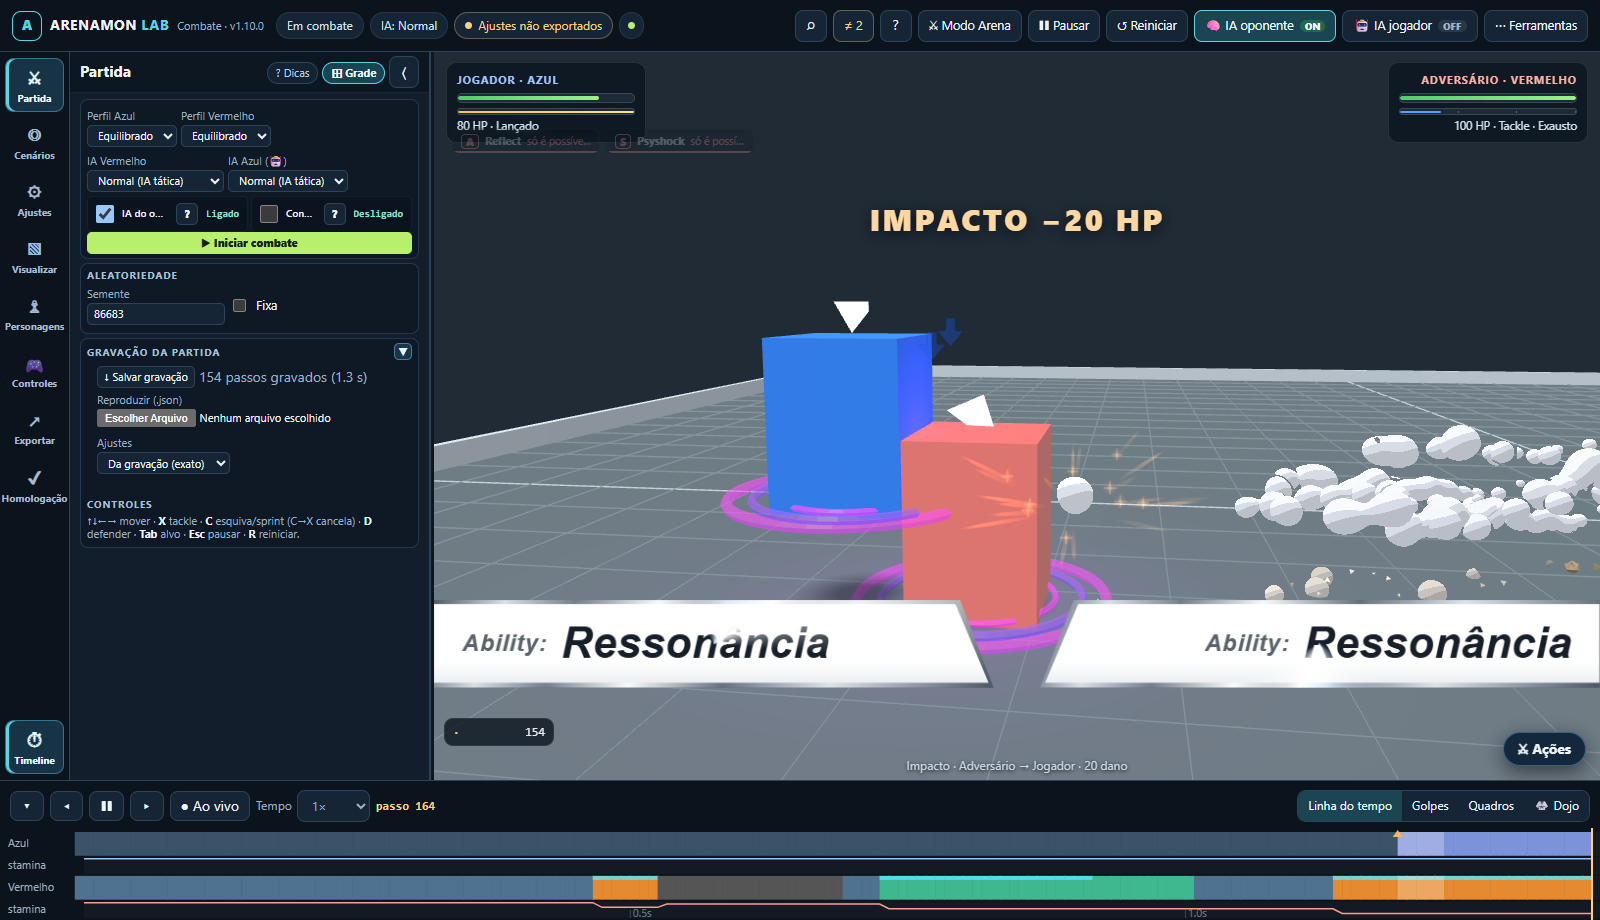
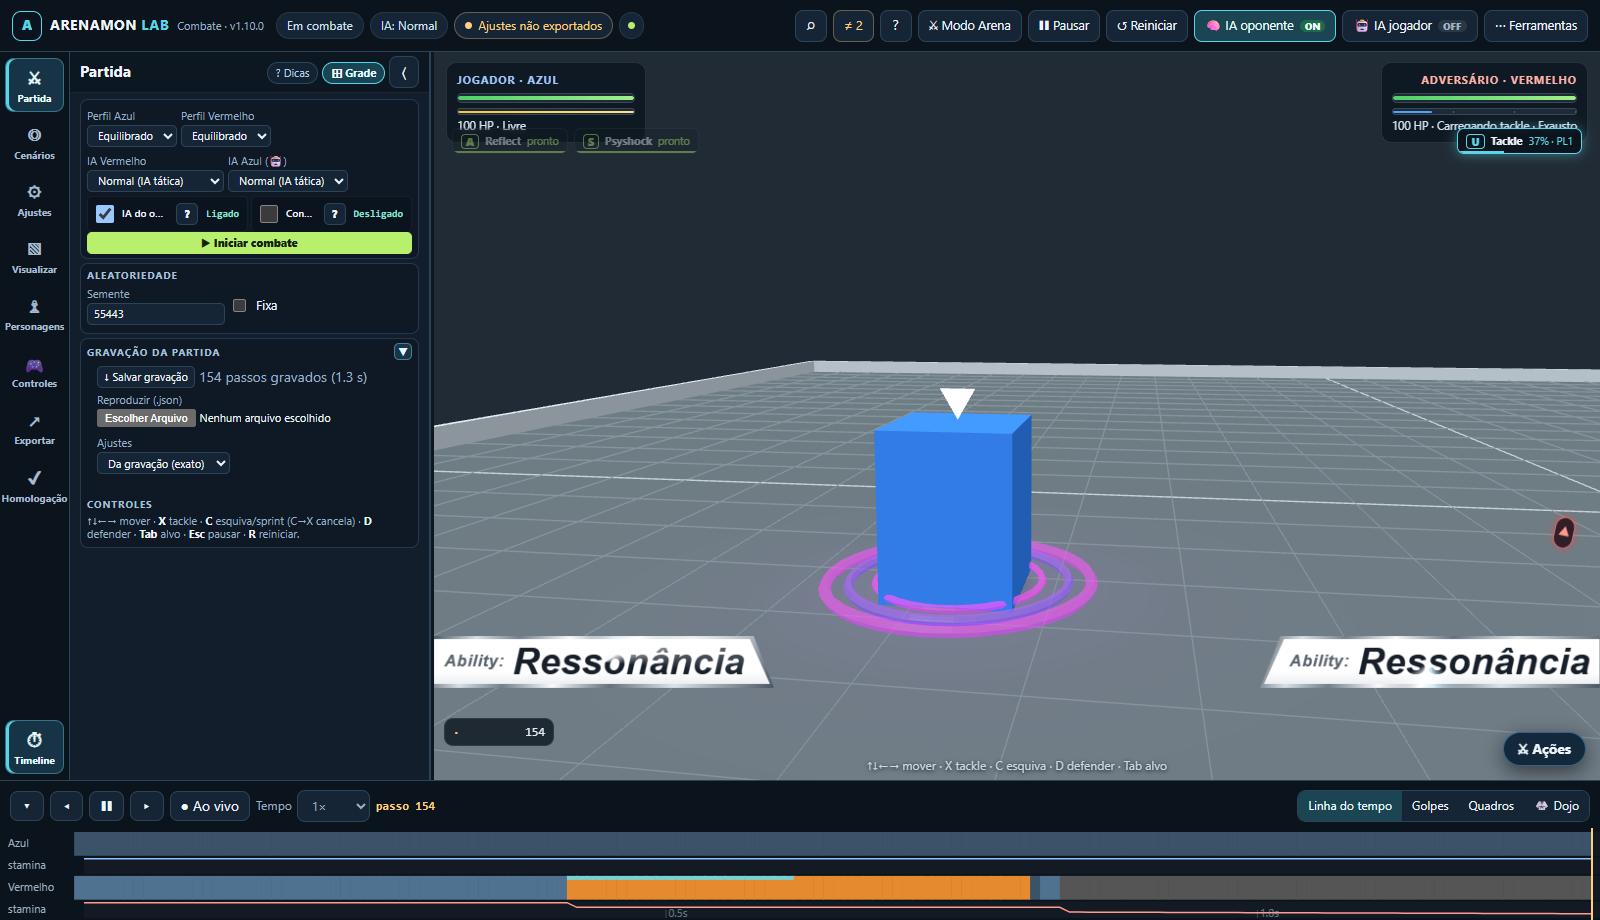
fix(combat-lab): compactar avisos de habilidades

diff --git a/prototypes/combat-lab/src/styles.css b/prototypes/combat-lab/src/styles.css
@@ -92,11 +92,11 @@ pre.diff{max-height:240px;overflow:auto;font-size:11px;background:#0b1118;paddin
 .chip-variant b{color:#8de4d1}.chip-variant button{min-height:20px!important;padding:0 5px!important;font-size:10px}
 .variants select{width:100%;font-size:11px;min-height:26px}.variants tr.playing td:first-child{color:var(--lime);font-weight:700}
 #vfx-flash{position:absolute;inset:0;pointer-events:none;opacity:0;mix-blend-mode:screen;z-index:3}
-.ability-banner{--side:-1;position:absolute;left:0;bottom:92px;width:min(620px,48%);height:88px;z-index:7;pointer-events:none;overflow:hidden;opacity:0;clip-path:polygon(0 0,94% 0,100% 100%,0 100%);filter:drop-shadow(0 5px 5px #0008);background:linear-gradient(110deg,#4d5964,#d8e0e6 12%,#737f8a 24%,#f8fbfd 38%,#65717c 54%,#dce4ea 72%,#4a5661);transform-origin:left center}
+.ability-banner{--side:-1;position:absolute;left:0;bottom:92px;width:min(340px,30%);height:52px;z-index:7;pointer-events:none;overflow:hidden;opacity:0;clip-path:polygon(0 0,94% 0,100% 100%,0 100%);filter:drop-shadow(0 4px 4px #0008);background:linear-gradient(110deg,#4d5964,#d8e0e6 12%,#737f8a 24%,#f8fbfd 38%,#65717c 54%,#dce4ea 72%,#4a5661);transform-origin:left center}
 .ability-banner.right{--side:1;left:auto;right:0;clip-path:polygon(6% 0,100% 0,100% 100%,0 100%);transform-origin:right center}
-.ability-banner-inner{position:absolute;inset:4px 5px 5px 0;display:flex;align-items:center;gap:14px;padding:0 58px 0 28px;background:linear-gradient(#fff,#fff 73%,#eceff2);clip-path:polygon(0 0,94% 0,100% 100%,0 100%);color:#17202a;font:italic 800 calc(30px * var(--ability-text-scale,1))/.95 Inter,Arial,sans-serif;white-space:nowrap}
-.ability-banner.right .ability-banner-inner{inset:4px 0 5px 5px;justify-content:flex-end;padding:0 28px 0 58px;clip-path:polygon(6% 0,100% 0,100% 100%,0 100%)}
-.ability-banner span{flex:none;color:#59636c;font-size:.55em;font-weight:600;letter-spacing:.02em}.ability-banner strong{font:inherit;min-width:0;overflow:hidden;text-overflow:ellipsis}
+.ability-banner-inner{position:absolute;inset:3px 4px 4px 0;display:flex;align-items:center;gap:8px;padding:0 24px 0 10px;background:linear-gradient(#fff,#fff 73%,#eceff2);clip-path:polygon(0 0,94% 0,100% 100%,0 100%);color:#17202a;font:italic 800 calc(26px * var(--ability-text-scale,1))/.95 Inter,Arial,sans-serif;white-space:nowrap}
+.ability-banner.right .ability-banner-inner{inset:3px 0 4px 4px;justify-content:flex-end;padding:0 10px 0 24px;clip-path:polygon(6% 0,100% 0,100% 100%,0 100%)}
+.ability-banner span{flex:none;color:#59636c;font-size:.45em;font-weight:650;letter-spacing:.02em}.ability-banner strong{font:inherit;min-width:0;overflow:hidden;text-overflow:ellipsis}
 .ability-banner.show{animation:ability-slide 2.3s cubic-bezier(.18,.86,.2,1) both}
 @keyframes ability-slide{0%{opacity:0;transform:translateX(calc(var(--side)*112%)) rotateY(calc(var(--side)*-34deg)) scale(.9)}12%{opacity:1;transform:translateX(calc(var(--side)*2%)) rotateY(calc(var(--side)*2deg)) scale(1.02)}20%,78%{opacity:1;transform:none}100%{opacity:0;transform:translateX(calc(var(--side)*112%)) rotateY(calc(var(--side)*-28deg)) scale(.94)}}
 .ability-banner::after{content:'';position:absolute;inset:0;z-index:2;pointer-events:none;mix-blend-mode:screen}
@@ -104,7 +104,7 @@ pre.diff{max-height:240px;overflow:auto;font-size:11px;background:#0b1118;paddin
 .stage[data-ability-border=pulse] .ability-banner::after{background:linear-gradient(135deg,#9ec5dd,#fff,#6e8799);animation:ability-metal-pulse 1.35s ease-in-out infinite}
 .stage[data-ability-border=chase] .ability-banner::after{inset:-420% -20%;background:conic-gradient(from 0deg,transparent 0 225deg,#b8d6e9 275deg,#fff 310deg,transparent 350deg);animation:ability-metal-chase 2.4s linear infinite}
 .ability-banner.right::after{animation-direction:reverse!important}@keyframes ability-metal-sweep{from{background-position:180% 0}to{background-position:-80% 0}}@keyframes ability-metal-pulse{0%,100%{opacity:.06}50%{opacity:.8}}@keyframes ability-metal-chase{to{transform:rotate(360deg)}}
-@media(max-width:720px){.ability-banner{bottom:76px;width:49%;height:82px}.ability-banner-inner{gap:6px;padding:0 30px 0 10px;font-size:calc(20px * var(--ability-text-scale,1))}.ability-banner.right .ability-banner-inner{padding:0 10px 0 30px}.ability-banner span{font-size:.48em}}
+@media(max-width:720px){.ability-banner{bottom:76px;width:min(280px,38%);height:50px}.ability-banner-inner{gap:5px;padding:0 24px 0 9px;font-size:calc(22px * var(--ability-text-scale,1))}.ability-banner.right .ability-banner-inner{padding:0 9px 0 24px}.ability-banner span{font-size:.42em}}
 @media(prefers-reduced-motion:reduce){.ability-banner.show{animation:ability-banner-fade 2.3s ease both}.ability-banner::after{animation:none!important}@keyframes ability-banner-fade{0%,100%{opacity:0}10%,82%{opacity:1}}}
 /* Barras do HUD atual: o medidor nativo do Chromium quase some com 5 px; agora com aparência própria. */
 .fighter meter{appearance:none;-webkit-appearance:none;height:10px;border-radius:5px;background:#1d2b38;border:1px solid #ffffff22;overflow:hidden}

diff --git a/docs/VFX_HABILIDADES_PASSIVAS.md b/docs/VFX_HABILIDADES_PASSIVAS.md
@@ -6,7 +6,8 @@ O jogo principal exibe avisos laterais no formato `Ability: NOME` quando a luta 
 
 - A notificação do jogador entra pela extrema esquerda; a do adversário entra pela extrema direita.
 - A placa tem interior branco, moldura metálica e três animações selecionáveis: **Reflexo**, **Pulso** e **Luz no contorno**.
-- O nome usa 36 px na configuração padrão e pode ser ajustado de 80% a 160% no painel **Visualizar → Habilidades passivas**.
+- Cada placa mede no máximo **340 × 52 px**; as duas juntas ocupam menos de 10% da área visível da arena.
+- O nome usa 31,2 px na configuração padrão e pode ser ajustado de 80% a 160% no painel **Visualizar → Habilidades passivas**. A placa não cresce com o texto e preserva a palavra completa.
 - Os efeitos 3D usam a posição, a altura visual e a orientação atuais de cada lutador em todos os quadros. Eles continuam presos ao personagem enquanto ele se move e quando a simulação está pausada.
 - As malhas são criadas uma vez e reutilizadas nas ativações seguintes.
 
